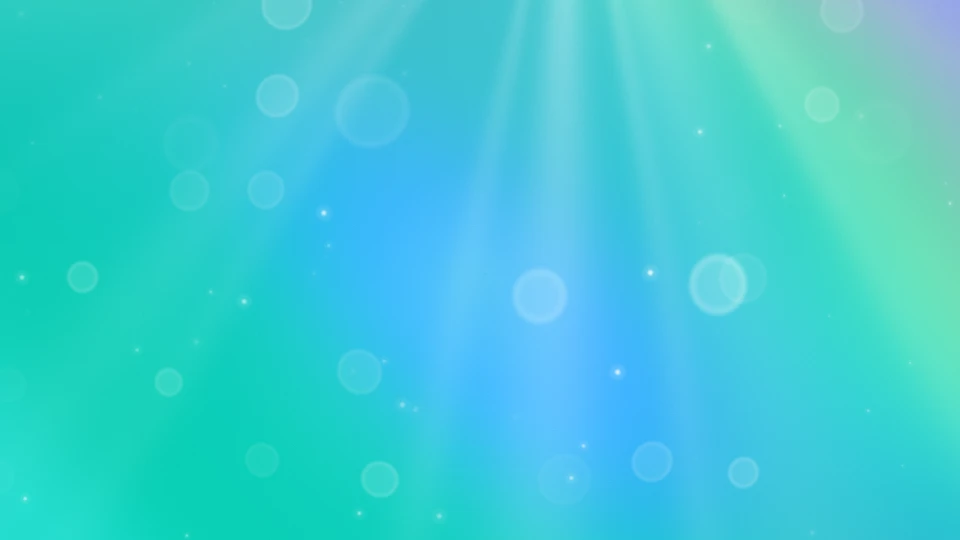
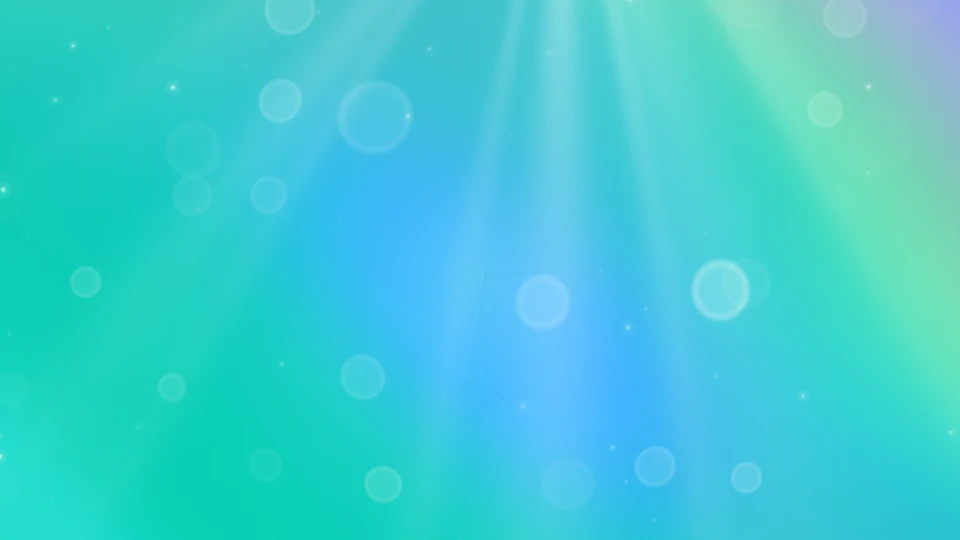
A sunset preset, and daylight.split for hot and cold sides
sunset: a hot red and orange against an electric blue, meeting through
violet, light first. It comes with daylight.split (0 to 1, default 0):
the colors keep to one side of a slowly turning, gently waving diagonal,
the background color holds the other, and the third nebula color lights
the seam. Playground slider, tests, README image and docs.

diff --git a/src/engine/shader.ts b/src/engine/shader.ts
@@ -22,7 +22,7 @@ uniform vec4 uRipples[4]; // xy: center (0..1), z: start (clock), w: strength
 uniform vec4 uMix;        // nebula, aurora, rays, glow intensities
 uniform vec4 uFx;         // lens, grain, vignette, shimmer
 uniform vec4 uShape;      // nebula scale, aurora offset, rays spread, intro duration
-uniform vec4 uDay;        // light theme: contrast, sheen, bokeh
+uniform vec4 uDay;        // light theme: contrast, sheen, bokeh, split
 uniform vec3 uBg;
 uniform vec3 uNeb0;
 uniform vec3 uNeb1;
@@ -176,11 +176,23 @@ void main() {
     float f2 = 0.5 + 0.5 * sin((w.x + w.y) * 1.25 + t * 0.041 + 3.1);
     float f3 = 0.5 + 0.5 * sin(length(w - vec2(0.45 * sin(t * 0.031), 0.15)) * 3.0 - t * 0.06);
     float k = uMix.x;
+    // split: the colors keep to one side of a slowly turning, gently waving diagonal; the
+    // background holds the other side, and the third color lights the seam between them
+    float side = 1.0;
+    float seam = 0.0;
+    if (uDay.w > 0.0) {
+      float ang = 2.4 + 0.35 * sin(t * 0.021);
+      float d = dot(p, vec2(cos(ang), sin(ang))) + 0.08 * sin(p.y * 3.1 + t * 0.07) + 0.05 * sin(p.x * 4.7 - t * 0.05);
+      side = mix(1.0, smoothstep(-0.32, 0.38, d), uDay.w);
+      seam = exp(-d * d * 9.0) * uDay.w;
+    }
+    k *= side;
     light = mix(light, uNeb0, smoothstep(0.25, 1.0, f0) * 0.88 * k);
     light = mix(light, uNeb1, smoothstep(0.32, 1.0, f1) * 0.85 * k);
     light = mix(light, uNeb2, smoothstep(0.4, 1.0, f2) * 0.8 * k);
     light = mix(light, uNeb3, smoothstep(0.45, 1.0, f3) * 0.75 * k);
     light = mix(light, mix(light, nebCol, 0.45), smoothstep(0.4, 0.9, nebField) * 0.3 * k);
+    light = mix(light, uNeb2, seam * 0.55 * uMix.x);
     // the folds: a slow field of its own where the colors gather and deepen
     fold = smoothstep(0.45, 1.0, 0.5 + 0.5 * sin(w.x * 0.9 - w.y * 1.4 + t * 0.035 + 2.3)) * k;
   }

diff --git a/src/presets.ts b/src/presets.ts
@@ -211,6 +211,44 @@ export const presets: Record<PresetName, DeepSkyPreset> = {
     grid: false,
   },
 
+  /** hot and cold: a red and orange left, an electric blue right, violet where they meet */
+  sunset: {
+    theme: 'light',
+    palette: {
+      dark: {
+        background: '#07081a',
+        nebula: ['#c42a1a', '#f07a12', '#2f55ff', '#8a3cff'],
+        aurora: ['#ff7a3d', '#5b7cff'],
+        rays: '#ffc590',
+        glow: '#ff9a52',
+        stars: ['#ffd8b0', '#b9c6ff', '#ffffff'],
+        spotlight: ['#ffab66', '#5b7cff'],
+        lines: '#ffc49a',
+        meteor: '#fff1df',
+        grid: 'rgba(255, 140, 80, 0.14)',
+      },
+      light: {
+        background: '#3d5cff',
+        nebula: ['#ff4a2a', '#ffa020', '#7b3cff', '#ff6a3d'],
+        aurora: ['#ffb36b', '#a78bfa'],
+        rays: '#ffffff',
+        glow: '#ffd0a8',
+        stars: ['#ffffff', '#ffffff', '#ffe2c4'],
+        spotlight: ['#ffd0a8', '#a5b4fc'],
+        lines: '#ffffff',
+        meteor: '#ffffff',
+        grid: 'rgba(255, 255, 255, 0.22)',
+      },
+    },
+    nebula: { intensity: 1, scale: 0.8, shimmer: 0 },
+    daylight: { contrast: 1.1, sheen: 0.5, bokeh: 0.25, split: 1 },
+    aurora: false,
+    rays: { intensity: 0.5 },
+    stars: { density: 0.5 },
+    meteors: { frequency: 0.6 },
+    grid: false,
+  },
+
   /** a cool morning: pale blue and periwinkle mist, a hint of mint */
   mist: {
     theme: 'light',

diff --git a/test/options.test.ts b/test/options.test.ts
@@ -35,12 +35,13 @@ describe('normalizeOptions', () => {
   });
 
   it('finishes the light theme with daylight, per preset, and turns it off', () => {
-    expect(normalizeOptions().daylight).toEqual({ enabled: true, contrast: 1, sheen: 1, bokeh: 1 });
+    expect(normalizeOptions().daylight).toEqual({ enabled: true, contrast: 1, sheen: 1, bokeh: 1, split: 0 });
     expect(normalizeOptions({ preset: 'porcelain' }).daylight).toMatchObject({ contrast: 0.5, sheen: 0.3 });
     expect(normalizeOptions({ daylight: { bokeh: 2 } }).daylight).toMatchObject({ enabled: true, bokeh: 2, sheen: 1 });
     const off = normalizeOptions({ daylight: false });
     expect(off.daylight.enabled).toBe(false);
-    expect(toEngineConfig(off).daylight).toEqual([0, 0, 0]);
+    expect(toEngineConfig(off).daylight).toEqual([0, 0, 0, 0]);
+    expect(normalizeOptions({ preset: 'sunset' }).daylight.split).toBe(1);
     expect(toEngineConfig(normalizeOptions({ daylight: { sheen: 9 } })).daylight[1]).toBe(2);
   });
 

diff --git a/src/options.ts b/src/options.ts
@@ -37,7 +37,7 @@ export const defaults: Defaults = {
   animate: 'auto',
   intro: true,
   nebula: { enabled: true, intensity: 1, scale: 1, shimmer: 0.22 },
-  daylight: { enabled: true, contrast: 1, sheen: 1, bokeh: 1 },
+  daylight: { enabled: true, contrast: 1, sheen: 1, bokeh: 1, split: 0 },
   aurora: { enabled: true, intensity: 1, position: 0.7 },
   rays: { enabled: true, intensity: 1, spread: 1 },
   glow: { enabled: true, intensity: 1, lens: 1 },
@@ -289,6 +289,7 @@ export function toEngineConfig(r: ResolvedOptions): EngineConfig {
       on(r.daylight.enabled, clamp(r.daylight.contrast, 0, 2)),
       on(r.daylight.enabled, clamp(r.daylight.sheen, 0, 2)),
       on(r.daylight.enabled, clamp(r.daylight.bokeh, 0, 2)),
+      on(r.daylight.enabled, clamp(r.daylight.split, 0, 1)),
     ],
     aurora: on(r.aurora.enabled, clamp(r.aurora.intensity, 0, 4)),
     auroraPosition: clamp(r.aurora.position, -0.2, 1.2),

diff --git a/demo/index.html b/demo/index.html
@@ -179,7 +179,7 @@
               </div>
               <h3>Fully themeable</h3>
               <p>
-                Ten presets, every color and layer configurable, and a smooth crossfade between
+                Eleven presets, every color and layer configurable, and a smooth crossfade between
                 dark and light themes.
               </p>
             </article>
@@ -268,7 +268,7 @@
       <div class="hold" id="presets">
         <section class="section">
           <p class="eyebrow">Presets</p>
-          <h2>Ten moods to start from.</h2>
+          <h2>Eleven moods to start from.</h2>
           <p class="section-lead">Pick one, then make it yours in the playground.</p>
           <div class="presets" id="preset-list"></div>
         </section>

diff --git a/demo/src/meta.ts b/demo/src/meta.ts
@@ -8,6 +8,7 @@ export const PRESET_INFO: Record<PresetName, { label: string; desc: string }> = 
   synthwave: { label: 'Synthwave', desc: 'Neon horizon on an endless grid.' },
   graphite: { label: 'Graphite', desc: 'Monochrome and quiet, made for product UIs.' },
   daybreak: { label: 'Daybreak', desc: 'Sunrise: peach, rose and lilac. Light first.' },
+  sunset: { label: 'Sunset', desc: 'Hot red and orange against electric blue. Light first.' },
   mist: { label: 'Mist', desc: 'A cool morning haze of blues. Light first.' },
   blossom: { label: 'Blossom', desc: 'Cherry blossom pinks and lavender. Light first.' },
   lagoon: { label: 'Lagoon', desc: 'Turquoise water and dancing sunlight. Light first.' },

diff --git a/src/types.ts b/src/types.ts
@@ -8,6 +8,7 @@ export type PresetName =
   | 'synthwave'
   | 'graphite'
   | 'daybreak'
+  | 'sunset'
   | 'mist'
   | 'blossom'
   | 'lagoon'
@@ -72,6 +73,11 @@ export interface DaylightOptions extends Layer {
   sheen?: number;
   /** soft out-of-focus discs of light drifting up, 0–2 (default 1) */
   bokeh?: number;
+  /**
+   * hot and cold sides, 0–1 (default 0): the colors gather on one side of a slowly turning
+   * diagonal, the background color holds the other, and they meet through the third nebula color
+   */
+  split?: number;
 }
 
 export interface AuroraOptions extends Layer {

diff --git a/src/engine/engine.ts b/src/engine/engine.ts
@@ -425,7 +425,7 @@ export class Engine {
     gl.uniform4fv(u.uRipples, this.ripples);
     gl.uniform4f(u.uMix, cfg.nebula, cfg.aurora, cfg.rays, cfg.glow);
     gl.uniform4f(u.uFx, cfg.lens, cfg.grain, cfg.vignette, cfg.shimmer);
-    gl.uniform4f(u.uDay, cfg.daylight[0], cfg.daylight[1], cfg.daylight[2], 0);
+    gl.uniform4f(u.uDay, cfg.daylight[0], cfg.daylight[1], cfg.daylight[2], cfg.daylight[3]);
     gl.uniform4f(
       u.uShape,
       cfg.nebulaScale,

diff --git a/src/engine/protocol.ts b/src/engine/protocol.ts
@@ -30,8 +30,8 @@ export interface EngineConfig {
   nebula: number;
   nebulaScale: number;
   shimmer: number;
-  /** light theme only: contrast, sheen, bokeh (0 = off) */
-  daylight: [number, number, number];
+  /** light theme only: contrast, sheen, bokeh, split (0 = off) */
+  daylight: [number, number, number, number];
   aurora: number;
   auroraPosition: number;
   rays: number;

diff --git a/demo/src/playground.ts b/demo/src/playground.ts
@@ -169,6 +169,7 @@ const GROUPS: Group[] = [
       range('daylight.contrast', 'Contrast', 0, 2, 0.05),
       range('daylight.sheen', 'Iridescent sheen', 0, 2, 0.05),
       range('daylight.bokeh', 'Bokeh', 0, 2, 0.05),
+      range('daylight.split', 'Hot / cold sides', 0, 1, 0.05),
     ],
   },
   {

diff --git a/README.md b/README.md
@@ -27,7 +27,7 @@ and 3D models lit by that sky. It renders in a Web Worker, so your app never dro
 - **Adapts to the device.** It measures its own frame time, lowers its resolution and then its frame rate on slower GPUs, backs off while your page runs long tasks, and pauses when off-screen.
 - **3D models, lit by the sky.** Drop in a glTF file or a built-in shape: the cursor light, the aurora and the nebula light it, shockwaves bend it. Chrome, glass, hologram, neon wire and more, with bloom and light shafts.
 - **Feels alive.** A light follows the cursor, stars swirl around it and link into constellations, clicks send shockwaves through the nebula, shooting stars cross the sky.
-- **Fully themeable.** Ten presets (five made for light pages), every color and every layer configurable live, with a smooth crossfade between dark and light themes.
+- **Fully themeable.** Eleven presets (six made for light pages), every color and every layer configurable live, with a smooth crossfade between dark and light themes.
 - **Works everywhere.** Vanilla JS, React, Vue, Svelte, Angular, a `<deep-sky>` tag or a `<script>` from a CDN. TypeScript types included.
 - **Polite by default.** Respects `prefers-reduced-motion`, is hidden from assistive tech, never blocks clicks, and falls back gracefully when WebGL or workers are missing.
 - **Small.** 16 kB gzipped, zero dependencies. The 3D layer (15 kB) is only downloaded by pages that use it.
@@ -42,9 +42,9 @@ Night skies:
 
 Light first (a vivid gradient mesh gliding over bright paper, sunbeams and white sparkles):
 
-| ![Daybreak](.github/assets/daybreak.webp) | ![Mist](.github/assets/mist.webp) | ![Blossom](.github/assets/blossom.webp) | ![Lagoon](.github/assets/lagoon.webp) |
-| :--: | :--: | :--: | :--: |
-| `daybreak` | `mist` | `blossom` | `lagoon` |
+| ![Sunset](.github/assets/sunset.webp) | ![Daybreak](.github/assets/daybreak.webp) | ![Mist](.github/assets/mist.webp) | ![Blossom](.github/assets/blossom.webp) | ![Lagoon](.github/assets/lagoon.webp) |
+| :--: | :--: | :--: | :--: | :--: |
+| `sunset` | `daybreak` | `mist` | `blossom` | `lagoon` |
 
 Plus two quiet ones for product UIs: `graphite` (dark) and `porcelain` (light). Every preset has a dark and a light palette, and `theme` picks one. Build your own in the [playground](https://deep-sky-omega.vercel.app) and copy the generated code.
 
@@ -296,7 +296,7 @@ Everything is optional. Layers accept `false` (hidden), `true` (shown with the p
 | Layer | Settings (defaults) |
 | --- | --- |
 | `nebula` | `intensity` (1), `scale` (1, higher = smaller clouds), `shimmer` (0.22, slow drift towards warm tones) |
-| `daylight` | The light theme's finish, 0 to 2: `contrast` (1, richer, deeper colors in the folds and towards the edges), `sheen` (1, a pearly iridescent band sweeping across), `bokeh` (1, soft discs of light drifting up). Only drawn while the sky is light |
+| `daylight` | The light theme's finish, 0 to 2: `contrast` (1, richer, deeper colors in the folds and towards the edges), `sheen` (1, a pearly iridescent band sweeping across), `bokeh` (1, soft discs of light drifting up), `split` (0 to 1, default 0: hot and cold sides, the colors gather on one side of a slowly turning diagonal and the background holds the other). Only drawn while the sky is light |
 | `aurora` | `intensity` (1), `position` (0.7, from 0 = bottom to 1 = top) |
 | `rays` | `intensity` (1), `spread` (1, angular density of the beams) |
 | `glow` | `intensity` (1, the light that follows the cursor, wandering on its own otherwise), `lens` (1, magnifying effect) |

diff --git a/CHANGELOG.md b/CHANGELOG.md
@@ -3,8 +3,8 @@
 ## 0.3.0 (2026-11-23)
 
 - **A new light theme.** A slow gradient mesh of the palette's colors, vivid and smooth, over bright paper, with the nebula as a faint marbling, instead of faint gray tints. Beams, the roaming light, shockwaves and sweeps add light, stars are white sparkles, the aurora is a soft veil, and the grain is halved. Every preset has new light colors.
-- **`daylight`**, the light theme's finish: `contrast` (colors deepen in the folds and towards the edges, a colored vignette, never gray), `sheen` (a pearly, iridescent band sweeping slowly across) and `bokeh` (soft discs of light with a bright rim, drifting up). Also `<deep-sky daylight="1.5">` and a Daylight section in the playground. Skipped entirely while the sky is dark.
-- **Light-first presets**: `daybreak` (remade: peach, rose and lilac), `mist` (a cool morning haze), `blossom` (cherry blossom pinks), `lagoon` (turquoise water and sunlight) and `porcelain` (warm whites and grays for product UIs). Each has a dark palette too.
+- **`daylight`**, the light theme's finish: `contrast` (colors deepen in the folds and towards the edges, a colored vignette, never gray), `sheen` (a pearly, iridescent band sweeping slowly across) `bokeh` (soft discs of light with a bright rim, drifting up) and `split` (hot and cold sides: the colors keep to one side of a slowly turning diagonal, the background holds the other, the third color lights the seam). Also `<deep-sky daylight="1.5">` and a Daylight section in the playground. Skipped entirely while the sky is dark.
+- **Light-first presets**: `sunset` (hot red and orange against electric blue, meeting through violet), `daybreak` (remade: peach, rose and lilac), `mist` (a cool morning haze), `blossom` (cherry blossom pinks), `lagoon` (turquoise water and sunlight) and `porcelain` (warm whites and grays for product UIs). Each has a dark palette too.
 - The `aurora` preset is gone (the aurora layer stays): asking for it gives `cosmos`.
 - The package is published as `deep-sky-background` on npm.
 
